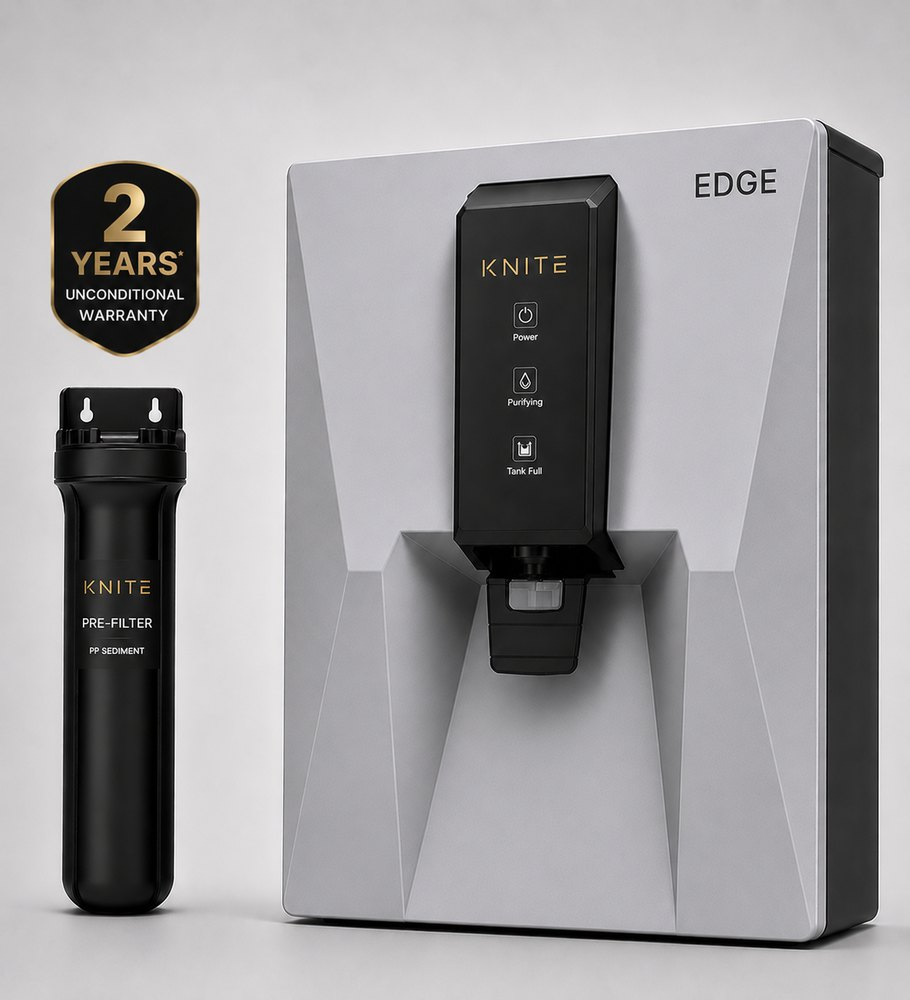
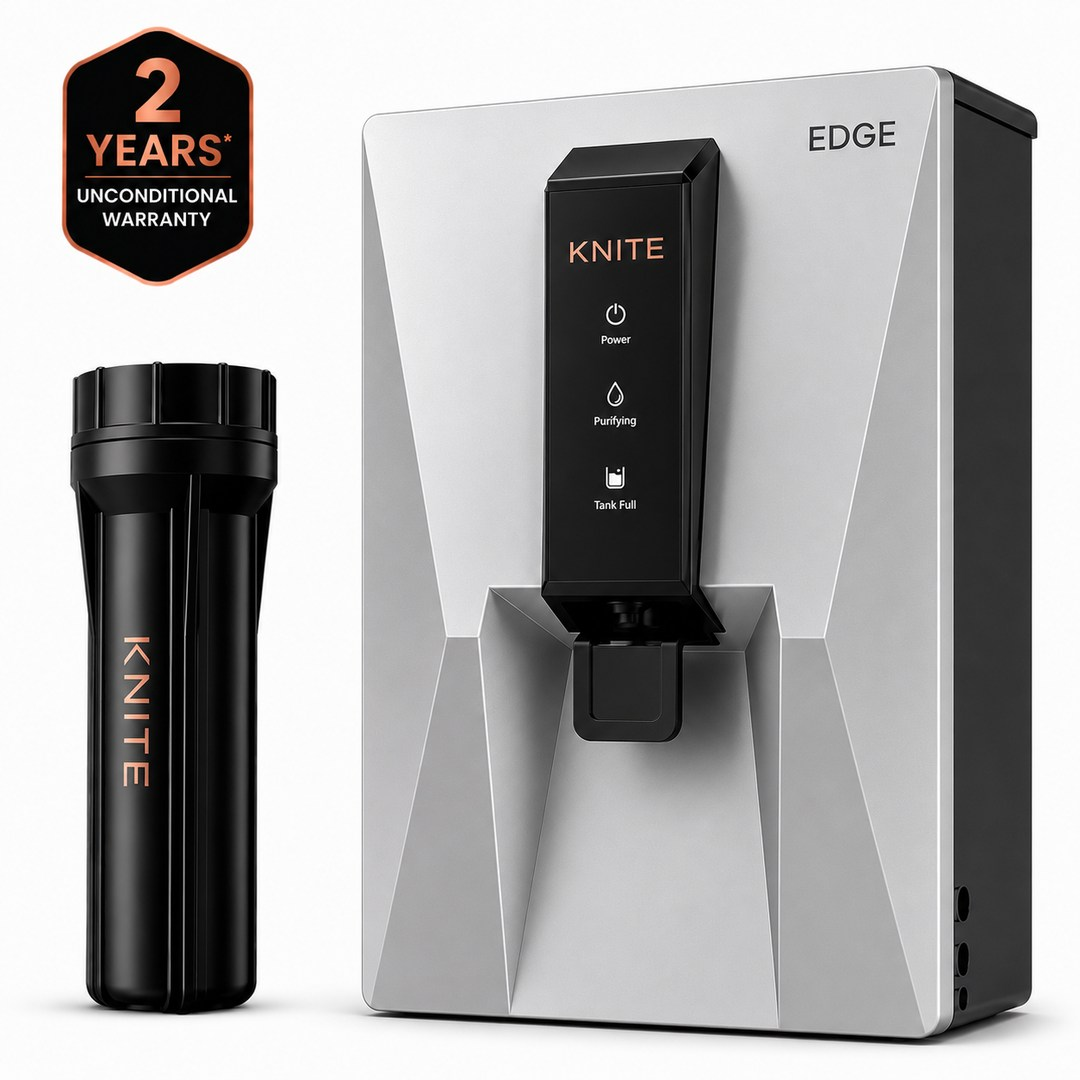
Refresh product hero images, rename Edge Black→Edge Metal, clean card tags
- Replace all 9 product hero photos with the new render set; cache-busted (?v=20260626)
- Rename Knite Edge Black → Knite Edge Metal (display name only; slug knite-edge-black kept so URLs/SEO don't break — DB updated separately)
- Remove category badges (Essential/RO+UV+UF/New/Premium/etc.) and discount (-33%) tags from product cards so the warranty shield in each photo is visible
- product.html: cache-bust the PDP product image

diff --git a/frontend/index.html b/frontend/index.html
@@ -1806,8 +1806,8 @@
       {
         "@type": "Product",
         "position": 8,
-        "name": "Knite Edge Black RO Water Purifier",
-        "description": "11-stage RO + UV + Alkaline RO purifier in the Edge Black cabinet. 100 GPD, handles TDS up to 3000 ppm.",
+        "name": "Knite Edge Metal RO Water Purifier",
+        "description": "11-stage RO + UV + Alkaline RO purifier in the Edge Metal cabinet. 100 GPD, handles TDS up to 3000 ppm.",
         "brand": { "@type": "Brand", "name": "Knite" },
         "category": "Water Purifier",
         "image": "https://knite.in/favicon.svg",
@@ -2015,7 +2015,7 @@
     <div class="hero-product-card" id="heroCard" role="link" tabindex="0" aria-label="Featured Knite product — click to view">
       <div class="hero-card-inner" id="heroInner">
         <div class="hero-prod-imgwrap">
-          <img class="hero-prod-img" id="heroImg" src="/products/knite-core.jpg" alt="Knite Core" width="180" height="180">
+          <img class="hero-prod-img" id="heroImg" src="/products/knite-core.jpg?v=20260626" alt="Knite Core" width="180" height="180">
         </div>
         <h3 id="heroName">Knite Core</h3>
         <p id="heroTag">6-Stage RO + UV</p>
@@ -2044,7 +2044,7 @@
     {s:'knite-prime-black',n:'Knite Prime Black',t:'11-Stage RO + UV + Alkaline',st:11,tk:'9L',g:100},
     {s:'knite-shield-copper',n:'Knite Shield Copper',t:'11-Stage RO + UV + Alkaline',st:11,tk:'9L',g:100},
     {s:'knite-shield-silver',n:'Knite Shield Silver',t:'11-Stage RO + UV + Alkaline',st:11,tk:'9L',g:100},
-    {s:'knite-edge-black',n:'Knite Edge Black',t:'11-Stage RO + UV + Alkaline',st:11,tk:'9L',g:100},
+    {s:'knite-edge-black',n:'Knite Edge Metal',t:'11-Stage RO + UV + Alkaline',st:11,tk:'9L',g:100},
     {s:'knite-edge-silver',n:'Knite Edge Silver',t:'11-Stage RO + UV + Alkaline',st:11,tk:'9L',g:100}
   ];
   var card=document.getElementById('heroCard'); if(!card) return;
@@ -2058,7 +2058,7 @@
     b.addEventListener('click',function(e){e.stopPropagation();go(idx);reset();});dw.appendChild(b);});
   var dots=Array.prototype.slice.call(dw.children);
   function render(idx){var it=items[idx];
-    img.src='/products/'+it.s+'.jpg';img.alt=it.n;nm.textContent=it.n;tg.textContent=it.t;
+    img.src='/products/'+it.s+'.jpg?v=20260626';img.alt=it.n;nm.textContent=it.n;tg.textContent=it.t;
     est.textContent=it.st;etk.textContent=it.tk;eg.textContent=it.g;card.setAttribute('data-slug',it.s);
     dots.forEach(function(d,n){d.className=(n===idx?'active':'');});cur=idx;}
   function go(idx){idx=(idx+items.length)%items.length;inner.classList.add('fading');
@@ -2125,10 +2125,8 @@
 
     <!-- Knite Core -->
     <a href="/product.html?slug=knite-core" class="product-card fade-up" aria-label="Knite Core RO Water Purifier">
-      <div class="product-badge-wrap"><span class="badge badge-best">Essential</span></div>
-      <div class="product-save-wrap"><span class="save-tag">-33%</span></div>
       <div class="product-image-area">
-        <img class="product-photo" src="/products/knite-core.jpg" alt="Knite Core RO Water Purifier" loading="lazy">
+        <img class="product-photo" src="/products/knite-core.jpg?v=20260626" alt="Knite Core RO Water Purifier" loading="lazy">
       </div>
       <div class="product-info">
         <div class="product-rating"><span class="stars"><span class="star on">★</span><span class="star on">★</span><span class="star on">★</span><span class="star on">★</span><span class="star">★</span></span><span class="rating-num">4.6 (48)</span></div>
@@ -2153,10 +2151,8 @@
 
     <!-- Knite Flux -->
     <a href="/product.html?slug=knite-flux" class="product-card fade-up" aria-label="Knite Flux RO Water Purifier">
-      <div class="product-badge-wrap"><span class="badge badge-popular">RO+UV+UF</span></div>
-      <div class="product-save-wrap"><span class="save-tag">-33%</span></div>
       <div class="product-image-area">
-        <img class="product-photo" src="/products/knite-flux.jpg" alt="Knite Flux RO Water Purifier" loading="lazy">
+        <img class="product-photo" src="/products/knite-flux.jpg?v=20260626" alt="Knite Flux RO Water Purifier" loading="lazy">
       </div>
       <div class="product-info">
         <div class="product-rating"><span class="stars"><span class="star on">★</span><span class="star on">★</span><span class="star on">★</span><span class="star on">★</span><span class="star">★</span></span><span class="rating-num">4.7 (36)</span></div>
@@ -2181,10 +2177,8 @@
 
     <!-- Knite Flux White -->
     <a href="/product.html?slug=knite-flux-white" class="product-card fade-up" aria-label="Knite Flux White RO Water Purifier">
-      <div class="product-badge-wrap"><span class="badge badge-best">New</span></div>
-      <div class="product-save-wrap"><span class="save-tag">-33%</span></div>
       <div class="product-image-area">
-        <img class="product-photo" src="/products/knite-flux-white.jpg" alt="Knite Flux White RO Water Purifier" loading="lazy">
+        <img class="product-photo" src="/products/knite-flux-white.jpg?v=20260626" alt="Knite Flux White RO Water Purifier" loading="lazy">
       </div>
       <div class="product-info">
         <div class="product-rating"><span class="stars"><span class="star on">★</span><span class="star on">★</span><span class="star on">★</span><span class="star on">★</span><span class="star">★</span></span><span class="rating-num">4.7 (24)</span></div>
@@ -2209,10 +2203,8 @@
 
     <!-- Knite Prime White -->
     <a href="/product.html?slug=knite-prime-white" class="product-card fade-up" aria-label="Knite Prime White RO Water Purifier">
-      <div class="product-badge-wrap"><span class="badge badge-popular">Most Popular</span></div>
-      <div class="product-save-wrap"><span class="save-tag">-33%</span></div>
       <div class="product-image-area">
-        <img class="product-photo" src="/products/knite-prime-white.jpg" alt="Knite Prime White RO Water Purifier" loading="lazy">
+        <img class="product-photo" src="/products/knite-prime-white.jpg?v=20260626" alt="Knite Prime White RO Water Purifier" loading="lazy">
       </div>
       <div class="product-info">
         <div class="product-rating"><span class="stars"><span class="star on">★</span><span class="star on">★</span><span class="star on">★</span><span class="star on">★</span><span class="star">★</span></span><span class="rating-num">4.7 (52)</span></div>
@@ -2237,10 +2229,8 @@
 
     <!-- Knite Prime Black -->
     <a href="/product.html?slug=knite-prime-black" class="product-card fade-up" aria-label="Knite Prime Black RO Water Purifier">
-      <div class="product-badge-wrap"><span class="badge badge-pro">Premium</span></div>
-      <div class="product-save-wrap"><span class="save-tag">-33%</span></div>
       <div class="product-image-area">
-        <img class="product-photo" src="/products/knite-prime-black.jpg" alt="Knite Prime Black RO Water Purifier" loading="lazy">
+        <img class="product-photo" src="/products/knite-prime-black.jpg?v=20260626" alt="Knite Prime Black RO Water Purifier" loading="lazy">
       </div>
       <div class="product-info">
         <div class="product-rating"><span class="stars"><span class="star on">★</span><span class="star on">★</span><span class="star on">★</span><span class="star on">★</span><span class="star">★</span></span><span class="rating-num">4.8 (64)</span></div>
@@ -2265,10 +2255,8 @@
 
     <!-- Knite Shield Copper -->
     <a href="/product.html?slug=knite-shield-copper" class="product-card fade-up" aria-label="Knite Shield Copper RO Water Purifier">
-      <div class="product-badge-wrap"><span class="badge badge-best">Designer</span></div>
-      <div class="product-save-wrap"><span class="save-tag">-30%</span></div>
       <div class="product-image-area">
-        <img class="product-photo" src="/products/knite-shield-copper.jpg" alt="Knite Shield Copper RO Water Purifier" loading="lazy">
+        <img class="product-photo" src="/products/knite-shield-copper.jpg?v=20260626" alt="Knite Shield Copper RO Water Purifier" loading="lazy">
       </div>
       <div class="product-info">
         <div class="product-rating"><span class="stars"><span class="star on">★</span><span class="star on">★</span><span class="star on">★</span><span class="star on">★</span><span class="star">★</span></span><span class="rating-num">4.7 (44)</span></div>
@@ -2293,10 +2281,8 @@
 
     <!-- Knite Shield Silver -->
     <a href="/product.html?slug=knite-shield-silver" class="product-card fade-up" aria-label="Knite Shield Silver RO Water Purifier">
-      <div class="product-badge-wrap"><span class="badge badge-pro">Metallic</span></div>
-      <div class="product-save-wrap"><span class="save-tag">-38%</span></div>
       <div class="product-image-area">
-        <img class="product-photo" src="/products/knite-shield-silver.jpg" alt="Knite Shield Silver RO Water Purifier" loading="lazy">
+        <img class="product-photo" src="/products/knite-shield-silver.jpg?v=20260626" alt="Knite Shield Silver RO Water Purifier" loading="lazy">
       </div>
       <div class="product-info">
         <div class="product-rating"><span class="stars"><span class="star on">★</span><span class="star on">★</span><span class="star on">★</span><span class="star on">★</span><span class="star">★</span></span><span class="rating-num">4.8 (38)</span></div>
@@ -2319,17 +2305,15 @@
       </div>
     </a>
 
-    <!-- Knite Edge Black -->
-    <a href="/product.html?slug=knite-edge-black" class="product-card fade-up" aria-label="Knite Edge Black RO Water Purifier">
-      <div class="product-badge-wrap"><span class="badge badge-best">Designer</span></div>
-      <div class="product-save-wrap"><span class="save-tag">-27%</span></div>
+    <!-- Knite Edge Metal -->
+    <a href="/product.html?slug=knite-edge-black" class="product-card fade-up" aria-label="Knite Edge Metal RO Water Purifier">
       <div class="product-image-area">
-        <img class="product-photo" src="/products/knite-edge-black.jpg" alt="Knite Edge Black RO Water Purifier" loading="lazy">
+        <img class="product-photo" src="/products/knite-edge-black.jpg?v=20260626" alt="Knite Edge Metal RO Water Purifier" loading="lazy">
       </div>
       <div class="product-info">
         <div class="product-rating"><span class="stars"><span class="star on">★</span><span class="star on">★</span><span class="star on">★</span><span class="star on">★</span><span class="star">★</span></span><span class="rating-num">4.7 (41)</span></div>
-        <h3>Knite Edge Black</h3>
-        <p class="product-tagline">11-Stage RO + UV + Alkaline — Edge Black cabinet</p>
+        <h3>Knite Edge Metal</h3>
+        <p class="product-tagline">11-Stage RO + UV + Alkaline — Edge Metal cabinet</p>
         <div class="product-specs">
           <span class="spec-pill">100 GPD</span>
           <span class="spec-pill">11-Stage</span>
@@ -2349,10 +2333,8 @@
 
     <!-- Knite Edge Silver -->
     <a href="/product.html?slug=knite-edge-silver" class="product-card fade-up" aria-label="Knite Edge Silver RO Water Purifier">
-      <div class="product-badge-wrap"><span class="badge badge-pro">Metallic</span></div>
-      <div class="product-save-wrap"><span class="save-tag">-35%</span></div>
       <div class="product-image-area">
-        <img class="product-photo" src="/products/knite-edge-silver.jpg" alt="Knite Edge Silver RO Water Purifier" loading="lazy">
+        <img class="product-photo" src="/products/knite-edge-silver.jpg?v=20260626" alt="Knite Edge Silver RO Water Purifier" loading="lazy">
       </div>
       <div class="product-info">
         <div class="product-rating"><span class="stars"><span class="star on">★</span><span class="star on">★</span><span class="star on">★</span><span class="star on">★</span><span class="star">★</span></span><span class="rating-num">4.8 (35)</span></div>

diff --git a/frontend/product.html b/frontend/product.html
@@ -279,7 +279,7 @@ function render(p) {
 
   document.getElementById('pdp-root').innerHTML = `
     <section class="pdp">
-      <div class="pdp-img">${HERO_SLUGS.includes(p.slug) ? `<img src="/products/${p.slug}.jpg" alt="${p.name}" style="width:100%;height:100%;object-fit:contain">` : PRODUCT_SVG}</div>
+      <div class="pdp-img">${HERO_SLUGS.includes(p.slug) ? `<img src="/products/${p.slug}.jpg?v=20260626" alt="${p.name}" style="width:100%;height:100%;object-fit:contain">` : PRODUCT_SVG}</div>
       <div class="pdp-info">
         <div class="pdp-brand">${p.brand || 'Knite'}</div>
         <h1>${p.name}</h1>
